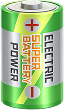
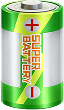
Appliance Store custom images, sizing polish, sync section spacing
- Replace color pickers with 8 custom images (batteries + fairy lights)
- Battery/Fairy Lights group labels with proper spacing
- Per-image height/width sizing, opacity 0.8 uncollected / 1 collected
- Fix device sync section spacing with explicit margins
- or/Export/Import text bumped to 14px

diff --git a/index.html b/index.html
@@ -334,13 +334,13 @@
         <div class="tape-strip" style="background:rgba(68,185,210,0.38);top:6px;transform:rotate(-0.7deg);"></div>
         <div class="tape-strip" style="background:rgba(108,202,120,0.40);top:18px;transform:rotate(0.5deg);"></div>
       </div>
-      <div id="device-sync-section" style="padding:20px 0;text-align:center;display:flex;flex-direction:column;align-items:center;gap:16px;">
-        <span style="font-size:14px;color:#7a8c77;">Switching devices?</span>
+      <div id="device-sync-section" style="padding:20px 0;text-align:center;display:flex;flex-direction:column;align-items:center;">
+        <span style="font-size:14px;color:#7a8c77;margin-bottom:8px;">Switching devices?</span>
         <span style="font-size:14px;color:#7a8c77;">Sign in to sync your collection automatically across devices.</span>
-        <button onclick="window.signInWithGoogle()" class="auth-btn" style="margin:0 auto;height:44px;padding:0 24px 0 16px;font-size:15px;">
+        <button onclick="window.signInWithGoogle()" class="auth-btn" style="margin:16px auto 16px;height:44px;padding:0 24px 0 16px;font-size:15px;">
           <span class="g-icon"><svg width="22" height="22" viewBox="0 0 18 18" xmlns="http://www.w3.org/2000/svg"><path d="M17.64 9.2c0-.637-.057-1.251-.164-1.84H9v3.481h4.844c-.209 1.125-.843 2.078-1.796 2.717v2.258h2.908c1.702-1.567 2.684-3.875 2.684-6.615z" fill="#4285F4"/><path d="M9 18c2.43 0 4.467-.806 5.956-2.184l-2.908-2.258c-.806.54-1.837.86-3.048.86-2.344 0-4.328-1.584-5.036-3.711H.957v2.332A8.997 8.997 0 0 0 9 18z" fill="#34A853"/><path d="M3.964 10.707A5.41 5.41 0 0 1 3.682 9c0-.593.102-1.17.282-1.707V4.961H.957A8.996 8.996 0 0 0 0 9c0 1.452.348 2.827.957 4.039l3.007-2.332z" fill="#FBBC05"/><path d="M9 3.58c1.321 0 2.508.454 3.44 1.345l2.582-2.58C13.463.891 11.426 0 9 0A8.997 8.997 0 0 0 .957 4.961L3.964 6.293C4.672 4.169 6.656 3.58 9 3.58z" fill="#EA4335"/></svg></span>Sign in with Google
         </button>
-        <span style="font-size:13px;color:#7a8c77;">or&nbsp;
+        <span style="font-size:14px;color:#7a8c77;">or&nbsp;
           <a href="#" onclick="exportCollection();return false;" class="text-link" style="color:#7a8c77;font-family:'Inter',sans-serif;">Export</a>
           &nbsp;/&nbsp;
           <a href="#" onclick="openImportModal();return false;" class="text-link" style="color:#7a8c77;font-family:'Inter',sans-serif;">Import</a>
@@ -421,14 +421,14 @@ const decors = [
   { id:'makeupstore', name:'Makeup Store', icon:'💄', wear:'Makeup', tags:['shop=department_store','shop=cosmetics','amenity=pharmacy'], tip:'Dedicated cosmetics stores work best. Department store beauty counters may not always count.' },
   { id:'shrinestemples', name:'Shrines and Temples', icon:'⛩', wear:'Fortune', variants:['Fortune (Very Lucky)','Fortune (Lucky)','Fortune (Pretty Lucky)','Fortune (A Little Lucky)','Fortune (Future Luck)'], exclusive:'Japan', locations:[], tags:['amenity=place_of_worship'], tip:'⚠ Japan exclusive. Only available near shrines and temples in Japan — not accessible in other countries.' },
   { id:'appliancesstore', name:'Appliances Store', icon:'🔌', wear:'Battery / Fairy Lights', variants:[], variantImages:[
-    {key:'d-red',   label:'D Battery (Red)',   img:'images/D-cell red.png'},
-    {key:'d-blue',  label:'D Battery (Blue)',  img:'images/D-cell blue.png'},
-    {key:'d-green', label:'D Battery (Green)', img:'images/D-cell green.png'},
-    {key:'aaa-red',   label:'AAA Battery (Red)',   img:'images/AAA red.png'},
-    {key:'aaa-blue',  label:'AAA Battery (Blue)',  img:'images/AAA blue.png'},
-    {key:'aaa-green', label:'AAA Battery (Green)', img:'images/AAA green.png'},
-    {key:'bulb',   label:'Light Bulb',             img:'images/light bulb2.png'},
-    {key:'lights', label:'Colorful String Lights', img:'images/xmas light.png'},
+    {key:'d-red',   label:'D Battery (Red)',   img:'images/D-cell red.png',   h:43, group:'Battery'},
+    {key:'d-blue',  label:'D Battery (Blue)',  img:'images/D-cell blue.png',  h:43, group:'Battery'},
+    {key:'d-green', label:'D Battery (Green)', img:'images/D-cell green.png', h:43, group:'Battery'},
+    {key:'aaa-red',   label:'AAA Battery (Red)',   img:'images/AAA red.png',   h:43, group:'Battery'},
+    {key:'aaa-blue',  label:'AAA Battery (Blue)',  img:'images/AAA blue.png',  h:43, group:'Battery'},
+    {key:'aaa-green', label:'AAA Battery (Green)', img:'images/AAA green.png', h:43, group:'Battery'},
+    {key:'bulb',   label:'Light Bulb',             img:'images/light bulb.png', h:41, group:'Fairy Lights'},
+    {key:'lights', label:'Colorful String Lights', img:'images/xmas light.png', h:47, group:'Fairy Lights'},
   ], tags:['shop=appliance','shop=computer','shop=electronics'], tip:'Large electronics and appliance stores work reliably. Not all home goods stores count.' },
   { id:'curryrestaurant', name:'Curry Restaurant', icon:'🍛', wear:'Curry bowl', tags:['cuisine=curry','cuisine=indian','cuisine=sri_lankan','cuisine=nepalese'], tip:'Indian, Thai, and other curry-focused restaurants all qualify.' },
   { id:'diystore', name:'DIY Store', icon:'🔧', wear:'Tool', tags:['shop=doityourself','shop=hardware'], tip:'Large hardware or home improvement stores work best. Small local hardware shops may not always qualify.' },
@@ -1204,15 +1204,20 @@ function renderMahjongGrid(d){
   ).join('');
 }
 function renderVariantImageGrid(d){
-  return`<div class="color-grid" style="flex-wrap:wrap;gap:14px;">`+
-    d.variantImages.map(v=>{
-      const isC=collected.has(slotKey(d.id,'vi',v.key));
-      return`<button class="mahjong-cell${isC?' collected':''}" onclick="toggleSlot('${d.id}','vi','${v.key}')" title="${v.label}">`+
-        `<img class="tile-img" src="${v.img}" alt="${v.label}" style="width:48px;height:auto;">`+
-        `<img class="chk-overlay" src="images/checked.png" alt="✓">`+
-        `</button>`;
-    }).join('')+
-    `</div>`;
+  const groups=[...new Set(d.variantImages.map(v=>v.group||''))];
+  return groups.map((g,gi)=>{
+    const items=d.variantImages.filter(v=>(v.group||'')=== g);
+    return(g?`<div class="variant-label" style="${gi>0?'margin-top:28px;':''}${gi===0?'margin-bottom:9px':''}">${g}</div>`:'')+
+      `<div class="color-grid" style="flex-wrap:wrap;gap:${gi===0?'24px':'20px'};margin-bottom:${g?'12px':'0'}">`+
+      items.map(v=>{
+        const isC=collected.has(slotKey(d.id,'vi',v.key));
+        return`<button class="mahjong-cell${isC?' collected':''}" onclick="toggleSlot('${d.id}','vi','${v.key}')" title="${v.label}">`+
+          `<img class="tile-img" src="${v.img}" alt="${v.label}" style="${v.h?`height:${v.h}px;width:auto`:`width:${v.w||36}px;height:auto`};opacity:${isC?1:0.8}">`+
+          `<img class="chk-overlay" src="images/checked.png" alt="✓">`+
+          `</button>`;
+      }).join('')+
+      `</div>`;
+  }).join('');
 }
 function renderCardGrid(d){
   return CARD_SUITS.map(suit=>
